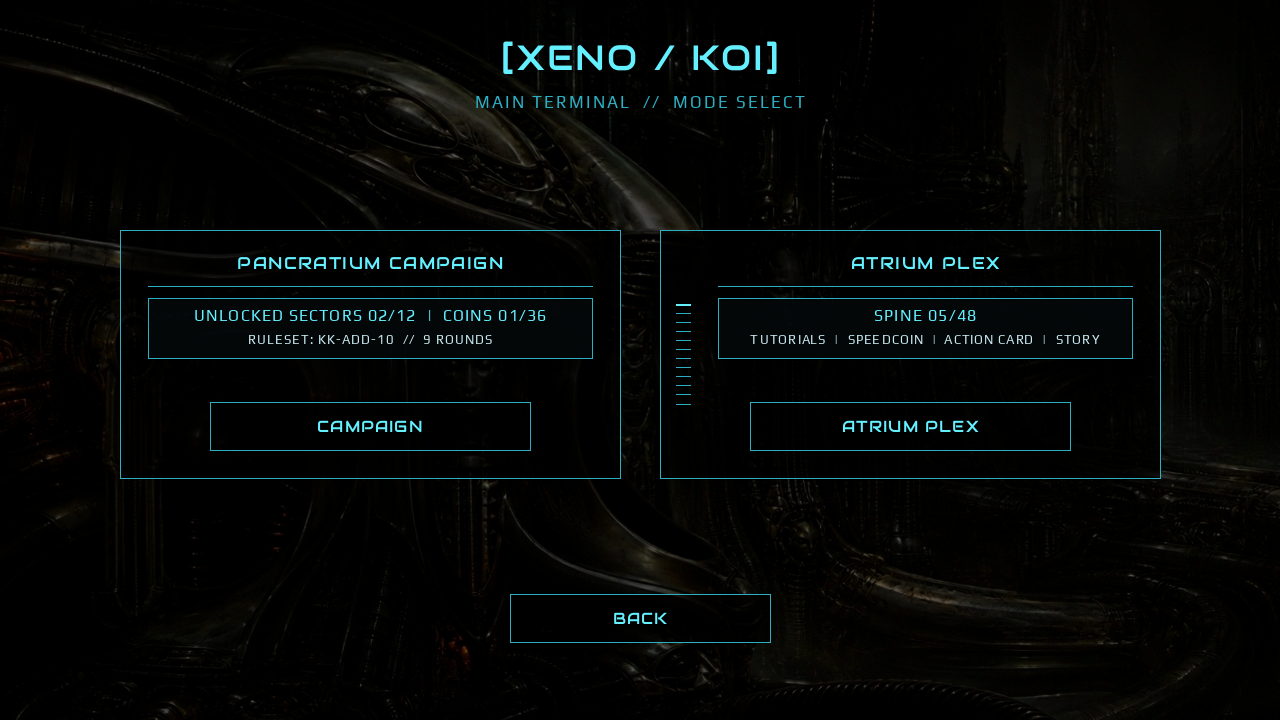
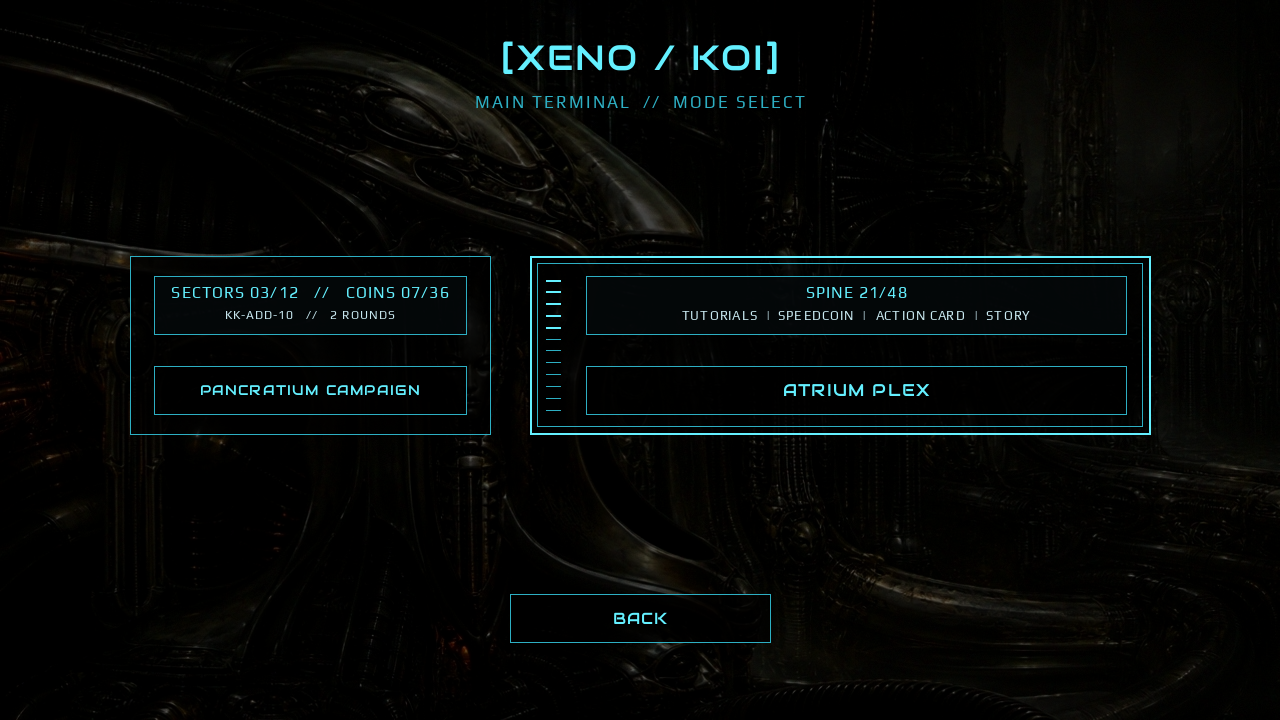
Mode select: one name per card, Atrium as the heavier door

diff --git a/src/ui_hub.c b/src/ui_hub.c
@@ -74,13 +74,16 @@ static const char *const k_profile_action_labels[5] = {
 };
 
 
-/* Mode select: title + one data strip + one button. The three lines of prose that
-   used to sit under each strip are gone, so the cards are 248 tall instead of 390 and
-   are centred between the header and the footer BACK button. */
-static const Rectangle k_main_left_panel    = { 120.0f, 230.0f, 500.0f, 248.0f };
-static const Rectangle k_main_right_panel   = { 660.0f, 230.0f, 500.0f, 248.0f };
-static const Rectangle k_main_campaign_btn  = { 210.0f, 402.0f, 320.0f,  48.0f };
-static const Rectangle k_main_atrium_btn    = { 750.0f, 402.0f, 320.0f,  48.0f };
+/* Mode select: one data strip and one button per card. The card heading is the button
+   label, so it is not drawn twice, and the two doors carry different weight: Atrium is
+   the wide, double-framed card with the Spine ladder, Campaign the slim one. Both share
+   one band (y 256, h 178) and one button row, so the pair reads as a single unit. */
+static const Rectangle k_main_left_panel    = { 130.0f, 256.0f, 360.0f, 178.0f };
+static const Rectangle k_main_right_panel   = { 530.0f, 256.0f, 620.0f, 178.0f };
+static const Rectangle k_main_campaign_box  = { 154.0f, 276.0f, 312.0f,  58.0f };
+static const Rectangle k_main_atrium_box    = { 586.0f, 276.0f, 540.0f,  58.0f };
+static const Rectangle k_main_campaign_btn  = { 154.0f, 366.0f, 312.0f,  48.0f };
+static const Rectangle k_main_atrium_btn    = { 586.0f, 366.0f, 540.0f,  48.0f };
 static const Rectangle k_main_back_btn      = { 510.0f, 594.0f, 260.0f,  48.0f };
 
 static const Rectangle k_camp_panel         = { 280.0f,  96.0f, 720.0f, 548.0f };
@@ -180,7 +183,7 @@ static void hub_draw_backdrop(const BoardAssets *ba) {
    screen that hints at how much sits behind the other door, and it costs twelve lines. */
 static void hub_draw_spine_ladder(Rectangle panel, int cleared_months) {
     float x0 = panel.x + 16.0f, x1 = panel.x + 30.0f;
-    float y0 = panel.y + 74.0f, span = panel.height - 148.0f;
+    float y0 = panel.y + 24.0f, span = panel.height - 48.0f;
     for (int m = 0; m < 12; m++) {
         float y = floorf(y0 + span * (float)m / 11.0f);
         int lit = (m < cleared_months);
@@ -344,56 +347,53 @@ void ui_hub_draw_main(const BoardAssets *ba, const GameSettings *s, int spine_co
     hub_draw_centered(font_title, "[XENO / KOI]", 640.0f, 36.0f, 44.0f, 2.2f, COLOR_PHOSPHOR);
     hub_draw_centered(font_body, "MAIN TERMINAL  //  MODE SELECT", 640.0f, 92.0f, 20.0f, 2.0f, COLOR_PHOSPHOR_DIM);
 
-    /* Left Card: CAMPAIGN */
+    /* Left Card: CAMPAIGN -- slim, one frame. */
     DrawRectangleRec(k_main_left_panel, COLOR_PANEL_BG);
     ui_draw_panel_border(k_main_left_panel, COLOR_PHOSPHOR_DIM);
-    hub_draw_centered(font_title, "PANCRATIUM CAMPAIGN", 370.0f, 252.0f, 22.0f, 1.4f, COLOR_PHOSPHOR);
-    DrawLine(148, 286, 592, 286, COLOR_PHOSPHOR_DIM);
-
-    Rectangle camp_stat_box = { 148.0f, 298.0f, 444.0f, 60.0f };
-    DrawRectangleRec(camp_stat_box, (Color){ 4, 8, 10, 210 });
-    DrawRectangleLinesEx(camp_stat_box, 1.0f, COLOR_PHOSPHOR_DIM);
-    snprintf(line1, sizeof(line1), "UNLOCKED SECTORS %02d/12  |  COINS %02d/36", sectors, coins);
-    hub_draw_centered(font_body, line1, 370.0f, 306.0f, 18.0f, 1.1f, COLOR_PHOSPHOR);
+    DrawRectangleRec(k_main_campaign_box, (Color){ 4, 8, 10, 210 });
+    DrawRectangleLinesEx(k_main_campaign_box, 1.0f, COLOR_PHOSPHOR_DIM);
+    snprintf(line1, sizeof(line1), "SECTORS %02d/12   //   COINS %02d/36", sectors, coins);
+    hub_draw_centered(font_body, line1, 310.0f, 283.0f, 18.0f, 1.1f, COLOR_PHOSPHOR);
     if (is_deus) {
-        snprintf(line2, sizeof(line2), "DEUS SUPREMUS ACTIVE  //  YAKUZA 15S");
-        hub_draw_centered(font_body, line2, 370.0f, 332.0f, 15.0f, 1.0f, COLOR_RED);
+        snprintf(line2, sizeof(line2), "DEUS SUPREMUS   //   YAKUZA 15S");
+        hub_draw_centered(font_body, line2, 310.0f, 308.0f, 14.0f, 1.0f, COLOR_RED);
     } else {
-        snprintf(line2, sizeof(line2), "RULESET: %s  //  %d ROUNDS",
+        snprintf(line2, sizeof(line2), "%s   //   %d ROUNDS",
                  s ? hub_ruleset_label(s->ruleset) : "KK-ADD-10", rounds);
-        hub_draw_centered(font_body, line2, 370.0f, 332.0f, 15.0f, 1.0f, COLOR_TEXT_INFO_DIM);
+        hub_draw_centered(font_body, line2, 310.0f, 308.0f, 14.0f, 1.0f, COLOR_TEXT_INFO_DIM);
     }
 
-    hub_draw_button(k_main_campaign_btn, "CAMPAIGN", 20, vm);
+    hub_draw_button(k_main_campaign_btn, "PANCRATIUM CAMPAIGN", 18, vm);
 
-    /* Right Card: ATRIUM PLEX */
+    /* Right Card: ATRIUM PLEX -- the heavier door: wide, a bright 2 px frame and an inner
+       hairline, so the depth behind it is legible before the loading card says so too. */
     DrawRectangleRec(k_main_right_panel, COLOR_PANEL_BG);
-    ui_draw_panel_border(k_main_right_panel, COLOR_PHOSPHOR_DIM);
-    hub_draw_centered(font_title, "ATRIUM PLEX", 940.0f, 252.0f, 22.0f, 1.4f, COLOR_PHOSPHOR);
-    DrawLine(718, 286, 1132, 286, COLOR_PHOSPHOR_DIM);
+    DrawRectangleLinesEx(k_main_right_panel, 2.0f, COLOR_PHOSPHOR);
+    DrawRectangleLinesEx((Rectangle){ k_main_right_panel.x + 7.0f, k_main_right_panel.y + 7.0f,
+                                      k_main_right_panel.width - 14.0f, k_main_right_panel.height - 14.0f },
+                         1.0f, COLOR_PHOSPHOR_DIM);
     hub_draw_spine_ladder(k_main_right_panel, (spine_count > 0) ? spine_count / 4 : 0);
 
-    Rectangle plex_stat_box = { 718.0f, 298.0f, 414.0f, 60.0f };
-    DrawRectangleRec(plex_stat_box, (Color){ 4, 8, 10, 210 });
-    DrawRectangleLinesEx(plex_stat_box, 1.0f, COLOR_PHOSPHOR_DIM);
+    DrawRectangleRec(k_main_atrium_box, (Color){ 4, 8, 10, 210 });
+    DrawRectangleLinesEx(k_main_atrium_box, 1.0f, COLOR_PHOSPHOR_DIM);
     if (spine_count >= 0) {
         int clamped_spine = (spine_count > 48) ? 48 : spine_count;
         snprintf(line1, sizeof(line1), "SPINE %02d/48", clamped_spine);
-        hub_draw_centered(font_body, line1, 925.0f, 306.0f, 18.0f, 1.2f, COLOR_PHOSPHOR);
+        hub_draw_centered(font_body, line1, 856.0f, 283.0f, 18.0f, 1.1f, COLOR_PHOSPHOR);
         if (clamped_spine == 0) {
-            hub_draw_centered(font_body, "[ NEW PLAYERS  //  TUTORIALS START HERE ]",
-                              925.0f, 332.0f, 15.0f, 1.0f, COLOR_AMBER);
+            hub_draw_centered(font_body, "NEW PLAYERS  //  TUTORIALS START HERE",
+                              856.0f, 308.0f, 15.0f, 1.0f, COLOR_AMBER);
         } else {
             hub_draw_centered(font_body, "TUTORIALS  |  SPEEDCOIN  |  ACTION CARD  |  STORY",
-                              925.0f, 332.0f, 15.0f, 1.0f, COLOR_TEXT_INFO_DIM);
+                              856.0f, 308.0f, 15.0f, 1.0f, COLOR_TEXT_INFO_DIM);
         }
     } else {
-        hub_draw_centered(font_body, "NEURAL CORTEX ARCHIVE", 925.0f, 306.0f, 18.0f, 1.2f, COLOR_PHOSPHOR);
+        hub_draw_centered(font_body, "NEURAL CORTEX ARCHIVE", 856.0f, 283.0f, 18.0f, 1.1f, COLOR_PHOSPHOR);
         hub_draw_centered(font_body, "TUTORIALS  |  SPEEDCOIN  |  ACTION CARD  |  STORY",
-                          925.0f, 332.0f, 15.0f, 1.0f, COLOR_TEXT_INFO_DIM);
+                          856.0f, 308.0f, 15.0f, 1.0f, COLOR_TEXT_INFO_DIM);
     }
 
-    hub_draw_button(k_main_atrium_btn, "ATRIUM PLEX", 20, vm);
+    hub_draw_button(k_main_atrium_btn, "ATRIUM PLEX", 22, vm);
 
     /* Footer Back Button */
     hub_draw_button(k_main_back_btn, "BACK", 20, vm);
@@ -401,11 +401,11 @@ void ui_hub_draw_main(const BoardAssets *ba, const GameSettings *s, int spine_co
 
 HubAction ui_hub_handle_main_click(Vector2 vm, HubButtonHit *out_hit) {
     if (CheckCollisionPointRec(vm, k_main_campaign_btn)) {
-        hub_record_hit(out_hit, k_main_campaign_btn, "CAMPAIGN", 20);
+        hub_record_hit(out_hit, k_main_campaign_btn, "PANCRATIUM CAMPAIGN", 18);
         return HUB_ACT_GOTO_CAMPAIGN_HUB;
     }
     if (CheckCollisionPointRec(vm, k_main_atrium_btn)) {
-        hub_record_hit(out_hit, k_main_atrium_btn, "ATRIUM PLEX", 20);
+        hub_record_hit(out_hit, k_main_atrium_btn, "ATRIUM PLEX", 22);
         return HUB_ACT_GOTO_ATRIUM;
     }
     if (CheckCollisionPointRec(vm, k_main_back_btn)) {

diff --git a/STATUS.md b/STATUS.md
@@ -1,11 +1,21 @@
-> **Development handoff (last updated 28 October 2026).** This records the local source status and verification noted below; it is not a release or deployment record. For current rules, use the code in `src/` and the wiki in `docs/`. The original build spec, `HANDOFF_KoiKoi_Giger_v2.pdf`, is legacy; see `AGENTS.md` and `docs/errata.md`.
+> **Development handoff (last updated 29 October 2026).** This records the local source status and verification noted below; it is not a release or deployment record. For current rules, use the code in `src/` and the wiki in `docs/`. The original build spec, `HANDOFF_KoiKoi_Giger_v2.pdf`, is legacy; see `AGENTS.md` and `docs/errata.md`.
 # XENO/KOI: BIOMECHANICAL EDITION — Project Status
 
 # XENO/KOI: BIOMECHANICAL EDITION - STATUS REPORT
-**Last updated: 28 October 2026.** This is a development handoff for the local source, not a release or deployment record. Code in `src/` defines behavior; the wiki in `docs/` explains the rules. See `AGENTS.md` for contributor guardrails and `docs/errata.md` for known issues.
+**Last updated: 29 October 2026.** This is a development handoff for the local source, not a release or deployment record. Code in `src/` defines behavior; the wiki in `docs/` explains the rules. See `AGENTS.md` for contributor guardrails and `docs/errata.md` for known issues.
 
 ## Status Summary
 ## Latest completed work
+
+### Mode select: one name per card, Atrium as the heavier door (29 October 2026)
+
+- **Duplicate labels removed.** Every mode-select card said its name twice, once as a card heading and once as the button label. The headings and their dividers are gone; the name now lives on the button only, plain uppercase: `PANCRATIUM CAMPAIGN` (18 px) and `ATRIUM PLEX` (22 px). Nothing else was added to fill the space.
+- **Smaller, aligned pair.** The cards went from `500x248` each to a shared band: Campaign `{130,256,360,178}`, Atrium `{530,256,620,178}`. Both use the same 20 px inset, the same 58 px strip, and the same button row at `y 366`, so the two cards read as one unit instead of two boxes. Footer `BACK` is unchanged at `{510,594,260,48}`; the content block is centred between it and the header.
+- **Atrium is the heavier door** (owner choice, variant B): a wider card, a bright 2 px frame with an inner hairline 7 px in, and the twelve-tick Spine ladder down its left edge, now inset 24 px top and bottom so it spans the strip and the button rather than floating. Campaign keeps a single dim frame. The campaign *page* keeps its own double frame - it marks the finite tournament side there, and the two screens are never on screen together.
+- Strip text was shortened to fit the narrower cards: `SECTORS 03/12   //   COINS 07/36`, `KK-ADD-10   //   2 ROUNDS` (or `DEUS SUPREMUS   //   YAKUZA 15S` in red), and `SPINE 21/48` over the tutorial line. All measured against the shipped TTFs; the widest line is 349 px in a 540 px strip.
+- **Verified:** `tools/tests_guard.sh`, `tests/test_table_ui.sh` (with `RAYLIB_SRC` pointed at the 5.0 headers), `python3 tools/gen_wiki_tables.py --check`, `git diff --check`, and `-std=c99 -O2 -Wall -Wextra -Werror -fsyntax-only` on `src/ui_hub.c`.
+- **Not verified:** the live run - no display or Raylib library here, so the layout is reconstructed in `mode_select_mockup.png` from the shipped coordinates and fonts.
+- **Touched:** `src/ui_hub.c`, `LEARN_THE_CODE.md` (§10.5), `STATUS.md`, `mode_select_mockup.png`. **Deliberately did not touch:** `src/ui_main.c`, `src/ui_hub.h`, the campaign page layout, `src/ui_screens.c`, `tests/`, `tools/`, rules/scoring, and the Atrium Plex screen itself.
 
 ### Hub pass: quit transition, leaner mode select, campaign options (28 October 2026)
 

diff --git a/LEARN_THE_CODE.md b/LEARN_THE_CODE.md
@@ -1793,23 +1793,29 @@ the input handler treats as "no restriction".
 ### 10.5 The hub screens (`ui_hub.c`)
 
 `SCREEN_START` is the brand line and three buttons; `SCREEN_HUB_MAIN` is the mode
-select, and its two cards are deliberately minimal: a title, one data strip, one
-button. No prose under the strip — three lines of description per card made the
-cards 390 px tall and pushed the footer `BACK` out of the visual centre. Cards are
-`{120, 230, 500, 248}` and `{660, 230, 500, 248}`, buttons `y 402`, footer `BACK`
+select, and each of its two cards is deliberately minimal: **one data strip and one
+button, nothing else**. There is no card heading, because the heading said the same
+name the button says and the name appeared twice on every card. The name lives on the
+button only, in plain uppercase: `PANCRATIUM CAMPAIGN` (18 px, `{154, 366, 312, 48}`)
+and `ATRIUM PLEX` (22 px, `{586, 366, 540, 48}`). Prose was removed earlier for the
+same reason — three lines of description per card had made the cards 390 px tall.
+
+Both cards sit on one band `y 256`, `h 178`, share the button row `y 366`, and are
+weighted differently on purpose. **Campaign** is the slim one: `{130, 256, 360, 178}`,
+one 1 px dim frame, strip `{154, 276, 312, 58}`. **Atrium Plex** is the heavier door:
+`{530, 256, 620, 178}`, a bright 2 px frame plus an inner hairline 7 px in, strip
+`{586, 276, 540, 58}` indented past the ladder column. `hub_draw_spine_ladder()` runs
+twelve ticks down the Atrium card's left edge, one per month, bright and doubled in
+weight once cleared (`spine_count / 4`), inset 24 px top and bottom. Footer `BACK` is
 `{510, 594, 260, 48}`.
 
-The two doors are signalled differently on purpose. **Campaign** is the finite,
-tournament side, so its page gets a double frame (an inner 1 px rectangle 7 px in)
-and its own `SYSTEM OPTIONS` button that returns to `SCREEN_HUB_CAMPAIGN` via
-`options_return_screen`. **Atrium Plex** answers in mode select with
-`hub_draw_spine_ladder()`: twelve ticks down the card's left edge, one per month,
-bright and doubled in weight once cleared (`spine_count / 4`), and the card's text
-block is shifted right to make room for them. Everything about the Atrium reads as
-depth — ladder, spine counter, the loading card on entry — while Campaign reads as a
-bracket.
+The same vocabulary is used with opposite signals elsewhere: the **campaign page**
+(`SCREEN_HUB_CAMPAIGN`) keeps its own double frame as the finite tournament side and
+its own `SYSTEM OPTIONS` button that returns here via `options_return_screen`.
+Everything about the Atrium reads as depth — ladder, spine counter, the loading card
+on entry — while Campaign reads as a bracket.
 
-`HUB_ACT_QUIT` is not a click-to-exit: it calls
+`HUB_ACT_TITLE_QUIT` is not a click-to-exit: it calls
 `start_transition(SCREEN_START, TRANSACT_QUIT, 0)`, so the ordinary fade plays, the
 card loader holds with a `-decoupled-` caption under the card, and the process exits
 at the end of the hold (`quit_requested`). `draw_loading_card()` takes a `caption`
